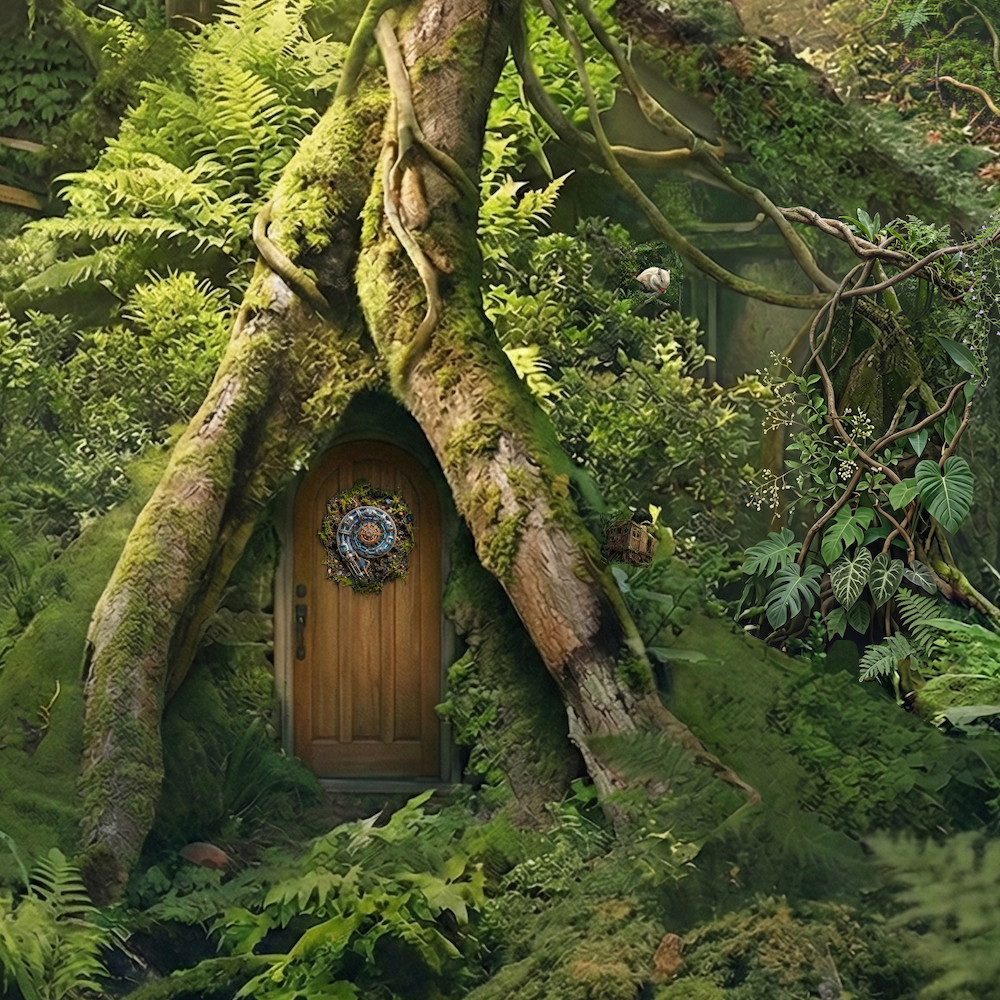
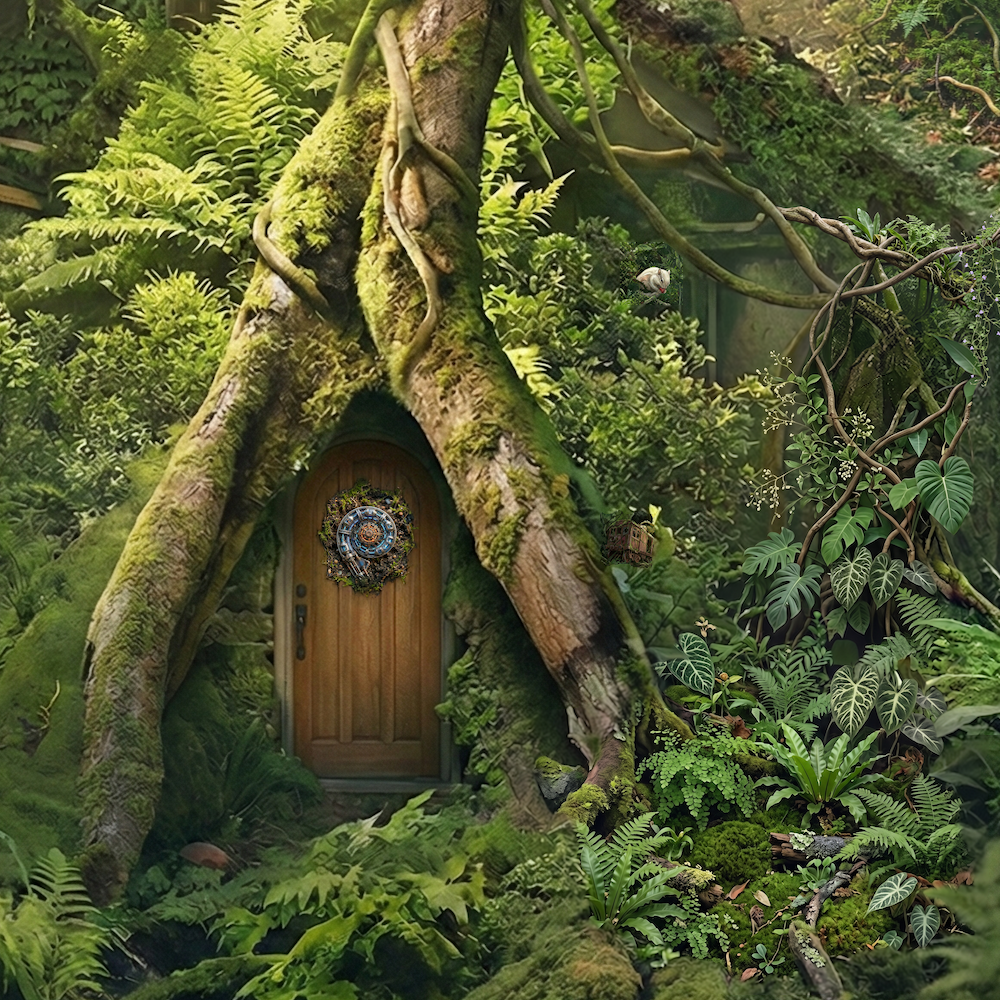
5

Changed region(s): [[0.527, 0.62, 0.992, 0.992]]

diff --git a/scenes.js b/scenes.js
@@ -12,7 +12,7 @@ window.gameData = {
         hotspots: [
             { top: '10.3%', left: '12.9%', width: '7.8%', height: '7.8%', target: 'redspots' },
             { top: '64.2%', left: '60%', width: '8.3%', height: '8.3%', target: 'alchemy' },
-            { top: '14.9%', left: '72%', width: '6.5%', height: '6.5%', target: 'treehouse' },
+            { top: '15.0%', left: '72%', width: '6.5%', height: '6.5%', target: 'treehouse' },
             { top: '32.4%', left: '62.7%', width: '6.2%', height: '6.2%', target: 'twohouses' },
             { top: '6.5%', left: '63.2%', width: '7.2%', height: '7.2%', target: 'cave' },
             { top: '60.7%', left: '44.0%', width: '6.9%', height: '6.9%', target: 'greenmon' },
